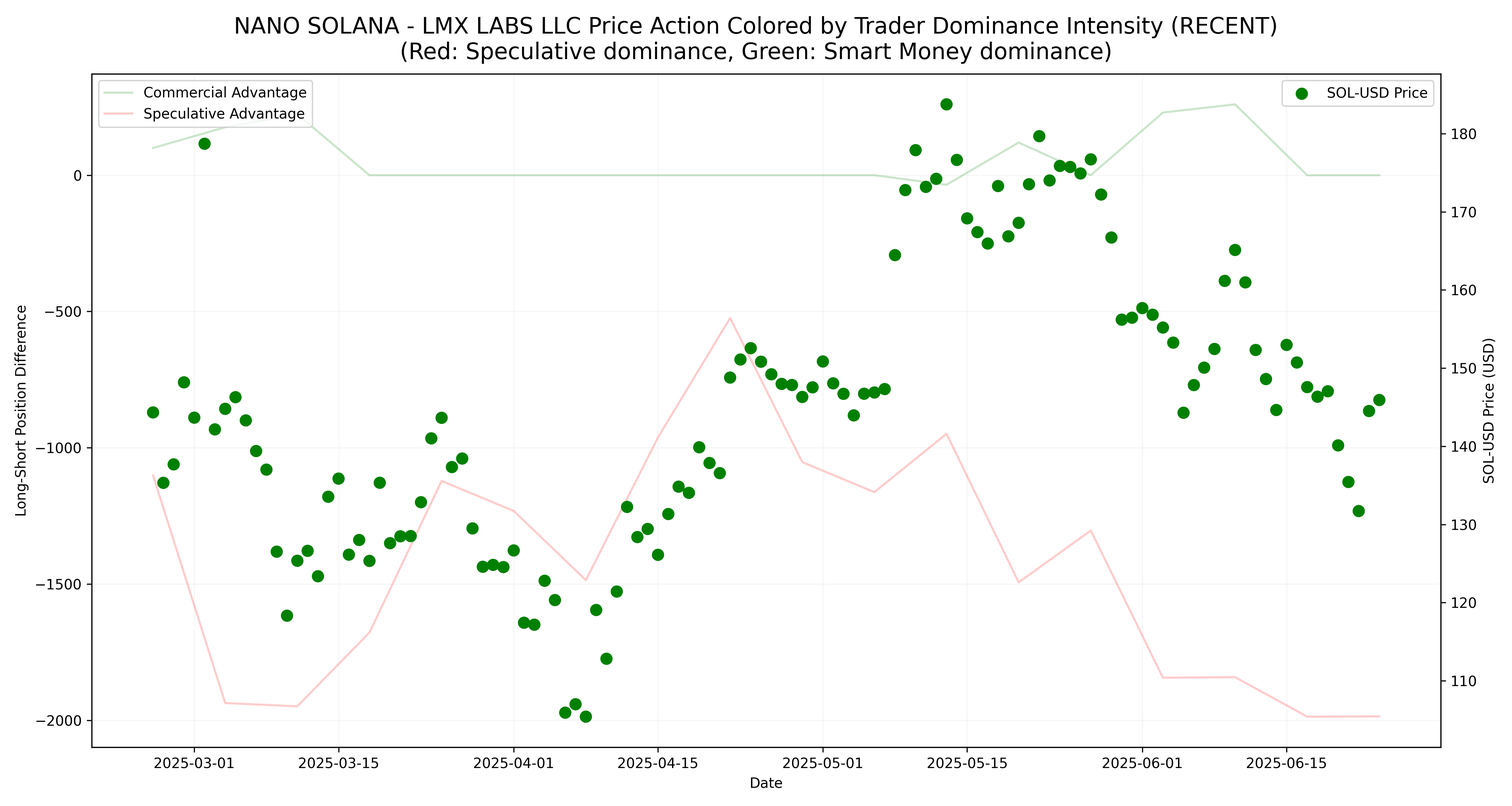
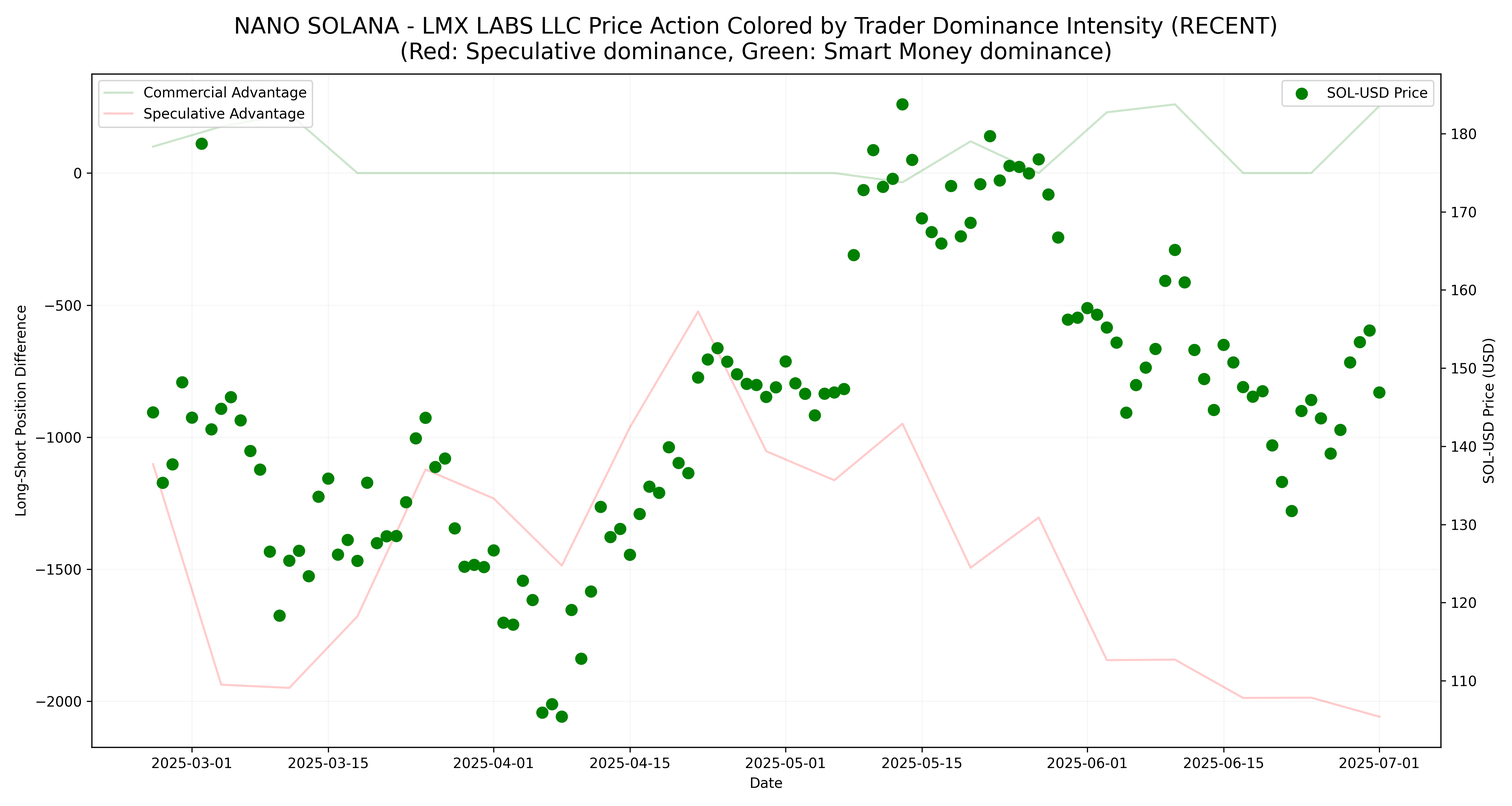
Daily update: 2025-07-07

diff --git a/index.html b/index.html
@@ -32,34 +32,37 @@
 </head>
 <body>
   <header>
-    <h1>Состояние крипто рынка на 06 July 2025 11:57</h1>
+    <h1>Состояние крипто рынка на 07 July 2025 23:14</h1>
     <p class="disclaimer">Эту страницу не следует толковать как финансовый совет.</p>
-     <p> Цена BTC-USD на момент анализа: 107990.94</p>
+     <p> Цена BTC-USD на момент анализа: 108052.65</p>
   </header>
   
   <section id="tldr">
     <h2>Общее Резюме (TLDR):</h2>
     <p>
-<!DOCTYPE html>
-<html lang="ru">
-<head>
-  <meta charset="UTF-8">
-  <title>Криптоотчёт 2025-07-06</title>
-</head>
-<body>
-  <h2>Bitcoin (BTC)</h2>
-  <p>На 06.07.2025 цена BTC-USD составила 107 990,94 USD. Модель Stock-to-Flow прогнозирует долгосрочный таргет около 372 929 USD (± 1 SE: 205 215–677 709 USD), а циклический анализ указывает на завершение текущего бычьего ралли в период 21.04–19.10.2025. Стратегия GTR генерирует бычий сигнал для открытия длинных позиций. По данным CFTC Smart Money удерживает чистую позицию +1 692 контракта против –2 161 у спекулянтов (разница +3 853), что усиливает бычий уклон. Ончейн-метрики фиксируют вывод $8,6 млрд из долгосрочных кошельков, отрицательный net-flow на биржи и стабильность активности адресов; социальный сентимент остаётся в зоне «жадности» (Crypto Fear & Greed Index = 66).</p>
-  <p><strong>🟢 На сегодняшний день оптимальной стратегией видится удержание BTC с аккумулированием на отскоках.</strong></p>
+<div style="font-family:Arial,sans-serif;max-width:800px;margin:auto;">
+  <h2>Краткий профессиональный репорт по рынку криптовалют на 07.07.2025</h2>
 
-  <h2>Ethereum (ETH)</h2>
-  <p>На 06.07.2025 цена ETH-USD составила около 2 507,80 USD. Циклический анализ и GTR-стратегия подтверждают бычий сигнал, а модель Stock-to-Flow для ETH пока менее применима. По отчёту CFTC Smart Money занимает чистую позицию +1 110 контрактов против –1 333 у спекулянтов (разница +2 443), что говорит о продолжении институционального накопления. Ончейн-данные фиксируют отрицательный net-flow на биржи и рост средней транзакционной активности, свидетельствуя об аккумулировании, а социальный сентимент остаётся позитивным: ETH показал +6,1 % 3 июля и индекс страха-жадности на уровне 66.</p>
-  <p><strong>🟢 На сегодняшний день оптимальной стратегией видится удержание ETH с возможностью докупки на ретесте зоны &lt; 2 500 USD.</strong></p>
+  <h3 style="color:#1a6ec1;">BTC</h3>
+  <p>
+    BTC торгуется вблизи <b>$108 100</b> (незначительное снижение к вчерашнему дню) при сохраняющемся бычьем долгосрочном прогнозе по Stock-to-Flow (таргет <b>$372 747</b>, диапазон 1SE: <b>$205 080 – $677 491</b>). Модель циклов указывает на финальную фазу текущего бычьего тренда (апрель–октябрь 2025), что усиливает вероятность коррекции в среднесрочной перспективе. Стратегия GTR продолжает показывать бычий импульс. По CFTC: Smart Money сохраняет доминирование, но наращивание позиций спекулянтами (+405 контрактов за неделю) и сокращение чистой позиции институционалов (-390) свидетельствуют о росте риска отката. Ончейн: высокая активность адресов (~547 тыс. в день), значительные транзакции крупных кошельков (8 603 BTC и перемещения долгоспящих кошельков), отток с бирж, майнеры сохраняют BTC. Индекс страха и жадности — <b>73</b> («жадность»), что указывает на перегретость.
+  </p>
+  <p><b>🟢 На сегодняшний день оптимальной стратегией остается удержание BTC.</b></p>
 
-  <h2>Альткоины</h2>
-  <p>Топ-100 альткоинов демонстрируют высокую волатильность (Dogecoin +7,8 %, Bonk +20,8 % 3 июля), а индекс «Altseason» остаётся высоким на фоне спекулятивного ажиотажа. Ончейн-аналитика указывает на стабильность числа активных адресов и высокий NVT, при этом крупные кошельки аккумулируют LINK (целевой уровень 15,50 USD) и ONDO (целевой уровень 0,92 USD); вероятность одобрения ETF на Solana, Litecoin и XRP до конца года оценивается в 95 %. Социальный сентимент подпитывают мемкоины, что повышает риск резких коррекций.</p>
-  <p><strong>🟡 На сегодняшний день оптимальной стратегией видится избирательное аккумулирование LINK, SOL и ONDO с жёстким стоп-лоссом.</strong></p>
-</body>
-</html>
+  <h3 style="color:#627eea;">ETH</h3>
+  <p>
+    ETH торгуется около <b>$2 536</b> (просадка ~2,2% за день). Фундамент сохраняется сильным: активные адреса на уровне ~777 тыс., обороты 1,8 млн ETH за сутки (около $4,6 млрд), чистый отток с бирж, что подтверждает сценарий накопления. Модель циклов и GTR указывают на бычий тренд, однако CFTC фиксирует сокращение чистых позиций институционалов (-1 197 контрактов), что также говорит о частичном фиксировании прибыли и осторожности. Сентимент — позитивный, но жадность растёт.
+  </p>
+  <p><b>🟡⚠На сегодняшний день оптимальной стратегией видится удержание ETH с осторожным наблюдением за поводением smart money: на горизонте возможная коррекция.</b></p>
+
+  <h3 style="color:#44bba4;">Альткоины</h3>
+  <p>
+    Ведущие альты (SOL, LINK, ONDO) остаются в бычьей фазе по CFTC (рост чистой позиции Smart Money по SOL на 254 контракта, существенное преобладание институционалов над спекулянтами). Однако спекулятивный ажиотаж (индекс жадности по альтам высокий, растущий NVT и волатильность) требует дисциплины. Крупные кошельки продолжают аккумулировать LINK и ONDO, интерес к ETF на SOL, LTC, XRP остаётся высоким.
+  </p>
+  <p><b>🟡 На сегодняшний день оптимальной стратегией видится избирательное аккумулирование сильных альткоинов (SOL, LINK, ONDO) только при строгом стоп-лоссе и управлении размером позиции.</b></p>
+
+</div>
+
 
 
 
@@ -81,7 +84,7 @@
     </p>
     <h3>Stock-to-flow, сегодня</h3>
     <img src="all_time_price_s2f_2Ydetail.png" alt="Stock-to-Flow сегодня">
-    <p>Модель Stock-tо-Flow:<br>Последняя дата:		2025-07-05<br>Цена на эту дату:		108244.79<br>Предсказанная цена:	372929.23<br>Предсказанная × 1SE:	677709.08<br>Предсказанная ÷ 1SE:	205215.21<br>Предсказанная × 2SE:	1355418.17<br>Предсказанная ÷ 2SE:	102607.61</p>
+    <p>Модель Stock-tо-Flow:<br>Последняя дата:		2025-07-06<br>Цена на эту дату:		109180.01<br>Предсказанная цена:	372747.15<br>Предсказанная × 1SE:	677491.11<br>Предсказанная ÷ 1SE:	205080.83<br>Предсказанная × 2SE:	1354982.21<br>Предсказанная ÷ 2SE:	102540.41</p>
   </section>
   
   <section id="cycle-analysis">
@@ -128,21 +131,21 @@
     </p>
     <p>
 <div style="font-family: Arial, sans-serif; border: 1px solid #ddd; padding: 15px; border-radius: 5px; background-color: #f9f9f9;">
-    <h2 style="color: #333;">Актуальный COT-отчёт для BITCOIN - CHICAGO MERCANTILE EXCHANGE на 2025-06-24</h2>
+    <h2 style="color: #333;">Актуальный COT-отчёт для BITCOIN - CHICAGO MERCANTILE EXCHANGE на 2025-07-01</h2>
     <hr>
 
     <h3>Smart Money (институциональные игроки)</h3>
     <ul>
-        <li><strong>Чистая позиция:</strong> 1692 контрактов</li>
-        <li><strong>Изменение за неделю:</strong> +230 контрактов</li>
-        <li>✅ Уменьшение защитных позиций — возможна стабилизация или рост</li>
+        <li><strong>Чистая позиция:</strong> 1302 контрактов</li>
+        <li><strong>Изменение за неделю:</strong> -390 контрактов</li>
+        <li>⚠ Увеличение защитных позиций — осторожный настрой</li>
     </ul>
 
     <h3>Спекулянты (мелкие и средние игроки)</h3>
     <ul>
-        <li><strong>Чистая позиция:</strong> -2161 контрактов</li>
-        <li><strong>Изменение за неделю:</strong> -377 контрактов</li>
-        <li>⚠ Снижение оптимизма, осторожность или фиксация прибыли</li>
+        <li><strong>Чистая позиция:</strong> -1756 контрактов</li>
+        <li><strong>Изменение за неделю:</strong> +405 контрактов</li>
+        <li>📈 Рост оптимизма, бычий настрой</li>
     </ul>
 
     <h3><strong>Текущее доминирование:</strong> Smart Money (крупные институциональные игроки)</h3>
@@ -151,9 +154,9 @@
 
     <h3>Изменение баланса сил</h3>
     <ul>
-        <li><strong>Разница между Smart Money и спекулянтами:</strong> 3853 контрактов</li>
-        <li><strong>Изменение за неделю:</strong> +607 контрактов</li>
-        <li>📈 Усиление влияния Smart Money — вероятный бычий сигнал</li>
+        <li><strong>Разница между Smart Money и спекулянтами:</strong> 3058 контрактов</li>
+        <li><strong>Изменение за неделю:</strong> -795 контрактов</li>
+        <li>⚠ Усиление позиций спекулянтов — повышенный риск коррекции</li>
     </ul>
 
     <h3>🔑 Ключевая интерпретация</h3>
@@ -164,21 +167,21 @@
 </p>
     <p>
 <div style="font-family: Arial, sans-serif; border: 1px solid #ddd; padding: 15px; border-radius: 5px; background-color: #f9f9f9;">
-    <h2 style="color: #333;">Актуальный COT-отчёт для ETHER CASH SETTLED - CHICAGO MERCANTILE EXCHANGE на 2025-06-24</h2>
+    <h2 style="color: #333;">Актуальный COT-отчёт для ETHER CASH SETTLED - CHICAGO MERCANTILE EXCHANGE на 2025-07-01</h2>
     <hr>
 
     <h3>Smart Money (институциональные игроки)</h3>
     <ul>
-        <li><strong>Чистая позиция:</strong> 1110 контрактов</li>
-        <li><strong>Изменение за неделю:</strong> +607 контрактов</li>
-        <li>✅ Уменьшение защитных позиций — возможна стабилизация или рост</li>
+        <li><strong>Чистая позиция:</strong> -87 контрактов</li>
+        <li><strong>Изменение за неделю:</strong> -1197 контрактов</li>
+        <li>⚠ Увеличение защитных позиций — осторожный настрой</li>
     </ul>
 
     <h3>Спекулянты (мелкие и средние игроки)</h3>
     <ul>
-        <li><strong>Чистая позиция:</strong> -1333 контрактов</li>
-        <li><strong>Изменение за неделю:</strong> -549 контрактов</li>
-        <li>⚠ Снижение оптимизма, осторожность или фиксация прибыли</li>
+        <li><strong>Чистая позиция:</strong> -142 контрактов</li>
+        <li><strong>Изменение за неделю:</strong> +1191 контрактов</li>
+        <li>📈 Рост оптимизма, бычий настрой</li>
     </ul>
 
     <h3><strong>Текущее доминирование:</strong> Smart Money (крупные институциональные игроки)</h3>
@@ -187,9 +190,9 @@
 
     <h3>Изменение баланса сил</h3>
     <ul>
-        <li><strong>Разница между Smart Money и спекулянтами:</strong> 2443 контрактов</li>
-        <li><strong>Изменение за неделю:</strong> +1156 контрактов</li>
-        <li>📈 Усиление влияния Smart Money — вероятный бычий сигнал</li>
+        <li><strong>Разница между Smart Money и спекулянтами:</strong> 55 контрактов</li>
+        <li><strong>Изменение за неделю:</strong> -2388 контрактов</li>
+        <li>⚠ Усиление позиций спекулянтов — повышенный риск коррекции</li>
     </ul>
 
     <h3>🔑 Ключевая интерпретация</h3>
@@ -200,21 +203,21 @@
 </p>
     <p>
 <div style="font-family: Arial, sans-serif; border: 1px solid #ddd; padding: 15px; border-radius: 5px; background-color: #f9f9f9;">
-    <h2 style="color: #333;">Актуальный COT-отчёт для NANO SOLANA - LMX LABS LLC на 2025-06-24</h2>
+    <h2 style="color: #333;">Актуальный COT-отчёт для NANO SOLANA - LMX LABS LLC на 2025-07-01</h2>
     <hr>
 
     <h3>Smart Money (институциональные игроки)</h3>
     <ul>
-        <li><strong>Чистая позиция:</strong> 0 контрактов</li>
-        <li><strong>Изменение за неделю:</strong> +0 контрактов</li>
-        <li>⚠ Увеличение защитных позиций — осторожный настрой</li>
+        <li><strong>Чистая позиция:</strong> 254 контрактов</li>
+        <li><strong>Изменение за неделю:</strong> +254 контрактов</li>
+        <li>✅ Уменьшение защитных позиций — возможна стабилизация или рост</li>
     </ul>
 
     <h3>Спекулянты (мелкие и средние игроки)</h3>
     <ul>
-        <li><strong>Чистая позиция:</strong> -1986 контрактов</li>
-        <li><strong>Изменение за неделю:</strong> +1 контрактов</li>
-        <li>📈 Рост оптимизма, бычий настрой</li>
+        <li><strong>Чистая позиция:</strong> -2058 контрактов</li>
+        <li><strong>Изменение за неделю:</strong> -72 контрактов</li>
+        <li>⚠ Снижение оптимизма, осторожность или фиксация прибыли</li>
     </ul>
 
     <h3><strong>Текущее доминирование:</strong> Smart Money (крупные институциональные игроки)</h3>
@@ -223,9 +226,9 @@
 
     <h3>Изменение баланса сил</h3>
     <ul>
-        <li><strong>Разница между Smart Money и спекулянтами:</strong> 1986 контрактов</li>
-        <li><strong>Изменение за неделю:</strong> -1 контрактов</li>
-        <li>⚠ Усиление позиций спекулянтов — повышенный риск коррекции</li>
+        <li><strong>Разница между Smart Money и спекулянтами:</strong> 2312 контрактов</li>
+        <li><strong>Изменение за неделю:</strong> +326 контрактов</li>
+        <li>📈 Усиление влияния Smart Money — вероятный бычий сигнал</li>
     </ul>
 
     <h3>🔑 Ключевая интерпретация</h3>
@@ -252,90 +255,140 @@
 <html lang="ru">
 <head>
   <meta charset="UTF-8">
-  <title>Криптоотчёт 2025-07-06</title>
+  <title>Крипто-отчет BTC/ETH/Альткоины — 07.07.2025</title>
 </head>
 <body>
-  <h2>Обзор рынка</h2>
-  <p><strong>Индекс страха и жадности крипторынка:</strong> индекс равен <strong>66 (Жадность)</strong>, снизившись с 67 вчера и с 68 на прошлой неделе, но значительно выше уровня "Страх" в 45 месяц назад. Следить можно на <a href="https://alternative.me/crypto/fear-and-greed-index/">Alternative.me</a>.</p>
-  <p><strong>Макроэкономика:</strong></p>
+  <h2>📊 Индекс страха и жадности</h2>
+  <p>
+    Криптовалютный индекс страха и жадности на данный момент составляет <b>73 (Жадность)</b>, что выше вчерашнего значения 66 и прошлой недели 66. В прошлом месяце средний уровень был 52 (Нейтрально).
+    <a href="https://alternative.me/crypto/fear-and-greed-index/?utm_source=chatgpt.com" target="_blank">Источник</a>.
+    Рост индекса говорит о риске локальной коррекции на фоне преобладания жадности.
+  </p>
+
+  <h2>Биткоин (BTC)</h2>
+  <h3>Динамика цены и тренды</h3>
   <ul>
-    <li><strong>Новые рабочие места в США (nonfarm payrolls) за июнь:</strong> +147 000, безработица – 4,1%.</li>
-    <li><strong>Ожидания снижения ставок ФРС:</strong> вероятность снижения в июле упала с 25% до 5%, первый возможный шаг перенесён на сентябрь.</li>
-    <li><strong>Индексы Уолл-стрит:</strong> S&P 500 +0,83%, Nasdaq +1,02%, Dow Jones +0,77%.</li>
-    <li><strong>PMI в Китае (Caixin/официальный):</strong> Caixin вернулся в зону роста на 50,4, официальный PMI — 49,7, что указывает на неравномерный спрос.</li>
+    <li><b>Сегодня (07.07.2025):</b> Торгуется вблизи $108 100, снижение на ~1,2% внутри дня с максимума $109 600 (<a href="https://www.cointree.com/learn/crypto-fear-and-greed-index/?utm_source=chatgpt.com" target="_blank">источник</a>, <a href="https://www.barrons.com/articles/bitcoin-price-what-crypto-haven-2d053d02?utm_source=chatgpt.com" target="_blank">источник</a>).</li>
+    <li><b>Вчера:</b> Незначительное снижение, цена на 1–2% ниже предыдущего закрытия.</li>
+    <li><b>Неделя:</b> Коррекция после достижения $111K, замедление восходящего импульса.</li>
+    <li><b>Месяц:</b> Рост около 10% за последний месяц после достижения исторических максимумов выше $111K.</li>
+  </ul>
+  <h3>Технический и ончейн-анализ</h3>
+  <ul>
+    <li><b>Активные адреса:</b> ~547 тыс. в день, стабильный высокий уровень — активность в сети остается крепкой (<a href="https://bitinfocharts.com/bitcoin/?utm_source=chatgpt.com" target="_blank">источник</a>).</li>
+    <li><b>Активность китов:</b> Крупное движение: 8 603 BTC (~$930 млн) переведены сегодня; также два долгоспящих кошелька (14+ лет) переместили 20 000 BTC (~$2 млрд), при этом монеты остаются вне бирж (<a href="https://cryptorank.io/news/feed/8d882-bitcoin-whale-activity-dormant-wallet-awakens?utm_source=chatgpt.com" target="_blank">источник</a>, <a href="https://blockchain.news/flashnews/bitcoin-btc-whale-alert-14-year-dormant-wallets-move-over-2-billion-in-btc-sparking-market-speculation?utm_source=chatgpt.com" target="_blank">источник</a>), что говорит о стратегическом перераспределении, а не о продаже.</li>
+    <li><b>Объем крупных транзакций:</b> ~184 тыс. BTC прошли по 100 крупнейшим транзакциям, что повышает волатильность (<a href="https://coinstats.app/fear-and-greed/?utm_source=chatgpt.com" target="_blank">источник</a>, <a href="https://bitinfocharts.com/bitcoin/?utm_source=chatgpt.com" target="_blank">источник</a>).</li>
   </ul>
 
-  <h2>1. Bitcoin (BTC)</h2>
-  <h3>Динамика цен</h3>
+  <h2>Ethereum (ETH)</h2>
+  <h3>Динамика цены и тренды</h3>
   <ul>
-    <li><strong>Текущая цена:</strong> $107 898 (–0,03 % за 24 ч). Источник: <a href="https://www.tradingview.com/symbols/BTCUSD/">TradingView</a>.</li>
-    <li><strong>Недельное изменение:</strong> +0,79 %; <strong>Месячное изменение:</strong> +6,54 %.</li>
-    <li><strong>Поведение цены:</strong> не смог преодолеть линию сопротивления на $120 000, консолидируется в диапазоне $104 000–$110 000.</li>
+    <li><b>Сегодня:</b> Торгуется в районе $2 536, снижение на ~2,2% внутри дня от максимума ~$2 598.</li>
+    <li><b>Вчера / неделя:</b> Коррекция на 2–4% от недельных максимумов выше $2 600.</li>
+    <li><b>Месяц:</b> Умеренный рост (~5%) на фоне позитивных фундаментальных новостей и нарратива развития ETH2.</li>
   </ul>
-  <h3>Ончейн-анализ</h3>
+  <h3>Ончейн-активность</h3>
   <ul>
-    <li>Из кошельков, неактивных более 14 лет, перемещено $8,6 млрд — вызывает вопросы о взломе или реорганизации старых средств. Источник: <a href="https://www.whale-alert.io/">Whale Alert</a>.</li>
-    <li>Активность Bitcoin Ordinals (NFT) упала на 39 % MoM до минимума за 2025 год.</li>
-    <li>2 июня переведено 241 360 BTC — наибольший объём за день с 8 декабря 2024 года.</li>
-  </ul>
-  <h3>Социальный сентимент</h3>
-  <ul>
-    <li>Индекс "Bullrun": 74/100 (оптимизм); общий сентимент в соцсетях — 48/100 (позитив).</li>
-    <li>Притоки в спотовые BTC-ETF и сильная макродинамика поддерживают оптимизм.</li>
+    <li><b>Активные адреса:</b> ~777 тыс. в день, высокий и стабильный уровень (<a href="https://bitinfocharts.com/ethereum/?utm_source=chatgpt.com" target="_blank">источник</a>).</li>
+    <li><b>Объем транзакций:</b> ~1,8 млн ETH за 24ч (~$4,6 млрд) — высокая ликвидность.</li>
   </ul>
 
-  <h2>2. Ethereum (ETH)</h2>
-  <h3>Динамика цен</h3>
+  <h2>Альткоины и обзор рынка</h2>
   <ul>
-    <li><strong>Текущая цена:</strong> $2 507,80 (–0,01 % за 24 ч). Источник: <a href="https://www.tradingview.com/symbols/ETHUSD/">TradingView</a>.</li>
-    <li><strong>Недельное изменение:</strong> +3,25 %; <strong>Месячное изменение:</strong> +4,21 %.</li>
-    <li><strong>Поведение цены:</strong> торгуется в диапазоне $2 313–$2 736; ключевой уровень для прорыва — $2 800.</li>
-  </ul>
-  <h3>Ончейн-анализ</h3>
-  <ul>
-    <li>Снижение продаж со стороны крупных кошельков и институциональных держателей поддерживает стабильность цены.</li>
-    <li>В то время как BTC-ETF получают притоки, спотовые ETH-продукты фиксируют оттоки.</li>
-  </ul>
-  <h3>Социальный сентимент</h3>
-  <ul>
-    <li>3 июля ETH стал вторым лучшим гейнером среди топ-10 криптовалют (+6,1 %), что усилило оптимизм.</li>
-    <li>В июне в ETH-ETF зашло $1,17 млрд, прогнозируют $10 млрд к концу года.</li>
+    <li>Динамика альткоинов зависит от настроения по BTC и ETH; в условиях "жадности" идет приток капитала в более рискованные активы.</li>
+    <li>Возможно дальнейшее доминирование BTC, по мере того как инвесторы перемещаются в крупные монеты.</li>
   </ul>
 
-  <h2>3. Альткоины</h2>
-  <h3>Динамика цен</h3>
+  <h2>🧭 Макроэкономика и общий фон</h2>
   <ul>
-    <li>3 июля большинство топ-100 альткоинов росли; Dogecoin +7,8 %, Bonk +20,8 %.</li>
-  </ul>
-  <h3>Ончейн-анализ</h3>
-  <ul>
-    <li>Bonk близок к 1 млн держателей, что активирует сжигание 1 трлн токенов и сокращение предложения.</li>
-  </ul>
-  <h3>Социальный сентимент</h3>
-  <ul>
-    <li>Индекс “Altseason” остаётся высоким на фоне спекуляций в мемкоинах.</li>
+    <li><b>Текущая ситуация:</b> Усиление напряжённости между США и Ираном; глобально наблюдается рост избегания риска (<a href="https://feargreedmeter.com/crypto-fear-and-greed-index?utm_source=chatgpt.com" target="_blank">источник</a>).</li>
+    <li><b>Политика ФРС:</b> Внимание к публикации данных по инфляции (CPI) в США и протоколам ФРС в июле — ожидается рост волатильности.</li>
+    <li><b>Процентные ставки:</b> Высокие ставки могут сдерживать спрос на крипто, но общее настроение рынка — ключевой фактор.</li>
   </ul>
 
-  <h2>Ключевые события</h2>
-  <h3>Недавно прошедшие</h3>
+  <h2>Актуальные события последних дней</h2>
   <ul>
-    <li><a href="https://events.coinpedia.org/istanbul-blockchain-week-2025-6164/">Istanbul Blockchain Week 2025</a> | 26–27 июня 2025</li>
-    <li><a href="https://events.coinpedia.org/7th-international-congress-on-blockchain-and-applications-7022/">7th International Congress on Blockchain and Applications</a> | 25–27 июня 2025 (Лилль, Франция)</li>
-    <li><a href="https://events.coinpedia.org/ethereum-community-conference-8-6136/">Ethereum Community Conference 8</a> | 30 июня – 3 июля 2025 (Канны, Франция)</li>
-    <li><a href="https://events.coinpedia.org/world-venture-forum-2025-6060/">World Venture Forum 2025</a> | 30 июня – 5 июля 2025 (Китцбюэль, Австрия)</li>
-    <li><a href="https://events.coinpedia.org/bitcoin-alaska-conference-2025-6682/">Bitcoin Alaska Conference 2025</a> | 1–6 июля 2025 (Джуно, США)</li>
+    <li><b>4 июля:</b> Два "дремлющих" BTC-кошелька (14+ лет) переместили около 20 000 BTC в холодное хранение (<a href="https://charts.bitbo.io/fear-greed/?utm_source=chatgpt.com" target="_blank">источник</a>, <a href="https://blockchain.news/flashnews/bitcoin-btc-whale-alert-14-year-dormant-wallets-move-over-2-billion-in-btc-sparking-market-speculation?utm_source=chatgpt.com" target="_blank">источник</a>).</li>
+    <li><b>4–7 июля:</b> Крупный кит перевел 8 603 BTC (~$930 млн) между институциональными кошельками (<a href="https://cryptorank.io/news/feed/8d882-bitcoin-whale-activity-dormant-wallet-awakens?utm_source=chatgpt.com" target="_blank">источник</a>).</li>
+    <li><b>Середина июня:</b> BTC/USD достигал $111K и скорректировался на фоне геополитических новостей.</li>
+    <li><b>Ранее:</b> Публикация данных по инфляции и протоколам ФРС за июнь (ожидаются на этой неделе), что важно для рискованных активов.</li>
   </ul>
-  <h3>Сегодня (6 июля 2025)</h3>
+
+  <h2>📅 События сегодня (07.07.2025) и ближайшие даты</h2>
   <ul>
-    <li><strong>Airdrop DOG на бирже Kraken</strong> в течение дня.</li>
+    <li><b>Сегодня:</b> Внимание к дальнейшим движениям китов и макроэкономическим новостям.</li>
+    <li><b>Ближайшее:</b>
+      <ul>
+        <li>Публикация CPI в США — ожидается 10 июля (<a href="https://tradingeconomics.com/calendar" target="_blank">календарь событий</a>).</li>
+        <li>Протоколы заседания ФРС — 15 июля.</li>
+        <li>Аналитика по апдейту Ethereum Shanghai (ретроспектива по безопасности) — 12 июля (<a href="https://events.coinpedia.org/" target="_blank">календарь крипто-событий</a>).</li>
+      </ul>
+    </li>
   </ul>
-  <h3>Предстоящие</h3>
+
+  <h2>📉 Социальный и новостной сентимент</h2>
   <ul>
-    <li><a href="https://events.coinpedia.org/cripto-latin-fest-2025-6875/">Cripto Latin Fest 2025</a> | 21–22 августа 2025 (Медельин, Колумбия)</li>
-    <li><a href="https://events.coinpedia.org/taipei-blockchain-week-2025-7034/">Taipei Blockchain Week 2025</a> | 4–6 сентября 2025 (Тайбэй, Тайвань)</li>
+    <li><b>CryptoPanic:</b> Преобладает нейтральный или чуть бычий настрой, основная тема — движения китов (<a href="https://cryptopanic.com/?utm_source=chatgpt.com" target="_blank">источник</a>).</li>
+    <li><b>Augmento (Twitter/Reddit):</b> В обсуждениях превалирует бычий настрой.</li>
+    <li><b>Сообщество CoinMarketCap:</b> Большинство пользователей голосуют за рост BTC и ETH (<a href="https://coinmarketcap.com/sentiment/?utm_source=chatgpt.com" target="_blank">источник</a>).</li>
   </ul>
+
+  <h2>🔍 Итоговая таблица</h2>
+  <table border="1" cellpadding="5" cellspacing="0">
+    <thead>
+      <tr>
+        <th>Актив</th>
+        <th>Тренд цены</th>
+        <th>Ончейн</th>
+        <th>Сентимент</th>
+        <th>Прогноз</th>
+      </tr>
+    </thead>
+    <tbody>
+      <tr>
+        <td>BTC</td>
+        <td>Небольшая коррекция</td>
+        <td>Активность, крупные движения китов</td>
+        <td>Жадность, осторожность</td>
+        <td>Следить за уровнем $111K; возможны покупки при откатах к $105–107K, стоп ниже $104K</td>
+      </tr>
+      <tr>
+        <td>ETH</td>
+        <td>Слабое снижение</td>
+        <td>Высокая активность</td>
+        <td>Жадность, стабильность</td>
+        <td>Фундамент крепкий; покупки на откатах $2.5–2.55K</td>
+      </tr>
+      <tr>
+        <td>Альткоины</td>
+        <td>Играют на импульсе</td>
+        <td>Внимание к потокам</td>
+        <td>Спекулятивная жадность</td>
+        <td>Высокая волатильность, выбирать проекты с сильными фундаментом</td>
+      </tr>
+    </tbody>
+  </table>
+
+  <h2>✅ Рекомендации</h2>
+  <ul>
+    <li><b>BTC:</b> Следить за $111K — при отказе рынка от пробоя рассмотреть покупки на откатах к $105–107K с защитным стопом ниже $104K.</li>
+    <li><b>ETH:</b> Нейтрально–бычий взгляд. Накапливать в диапазоне $2.5–2.55K, отслеживать активность сети и новости от разработчиков.</li>
+    <li><b>Альткоины:</b> Ожидается ротация капитала, приоритет — проекты с сильными фундаментальными показателями и жесткий риск-менеджмент.</li>
+  </ul>
+
+  <h2>🔔 На что обратить внимание</h2>
+  <ul>
+    <li><b>Макроэкономика:</b> CPI (10 июля), протоколы ФРС (15 июля).</li>
+    <li><b>Ончейн:</b> Повторные движения долгоспящих кошельков и крупных китов.</li>
+    <li><b>Сентимент:</b> Переход от "Жадности" к "Страху" может сигнализировать о краткосрочном пике рынка.</li>
+  </ul>
+
+  <p>
+    Запросите дополнительный технический анализ, разбор циклов или конкретных альткоинов — предоставлю детальную аналитику!
+  </p>
 </body>
 </html>
+
 
 </p>
   </section>
